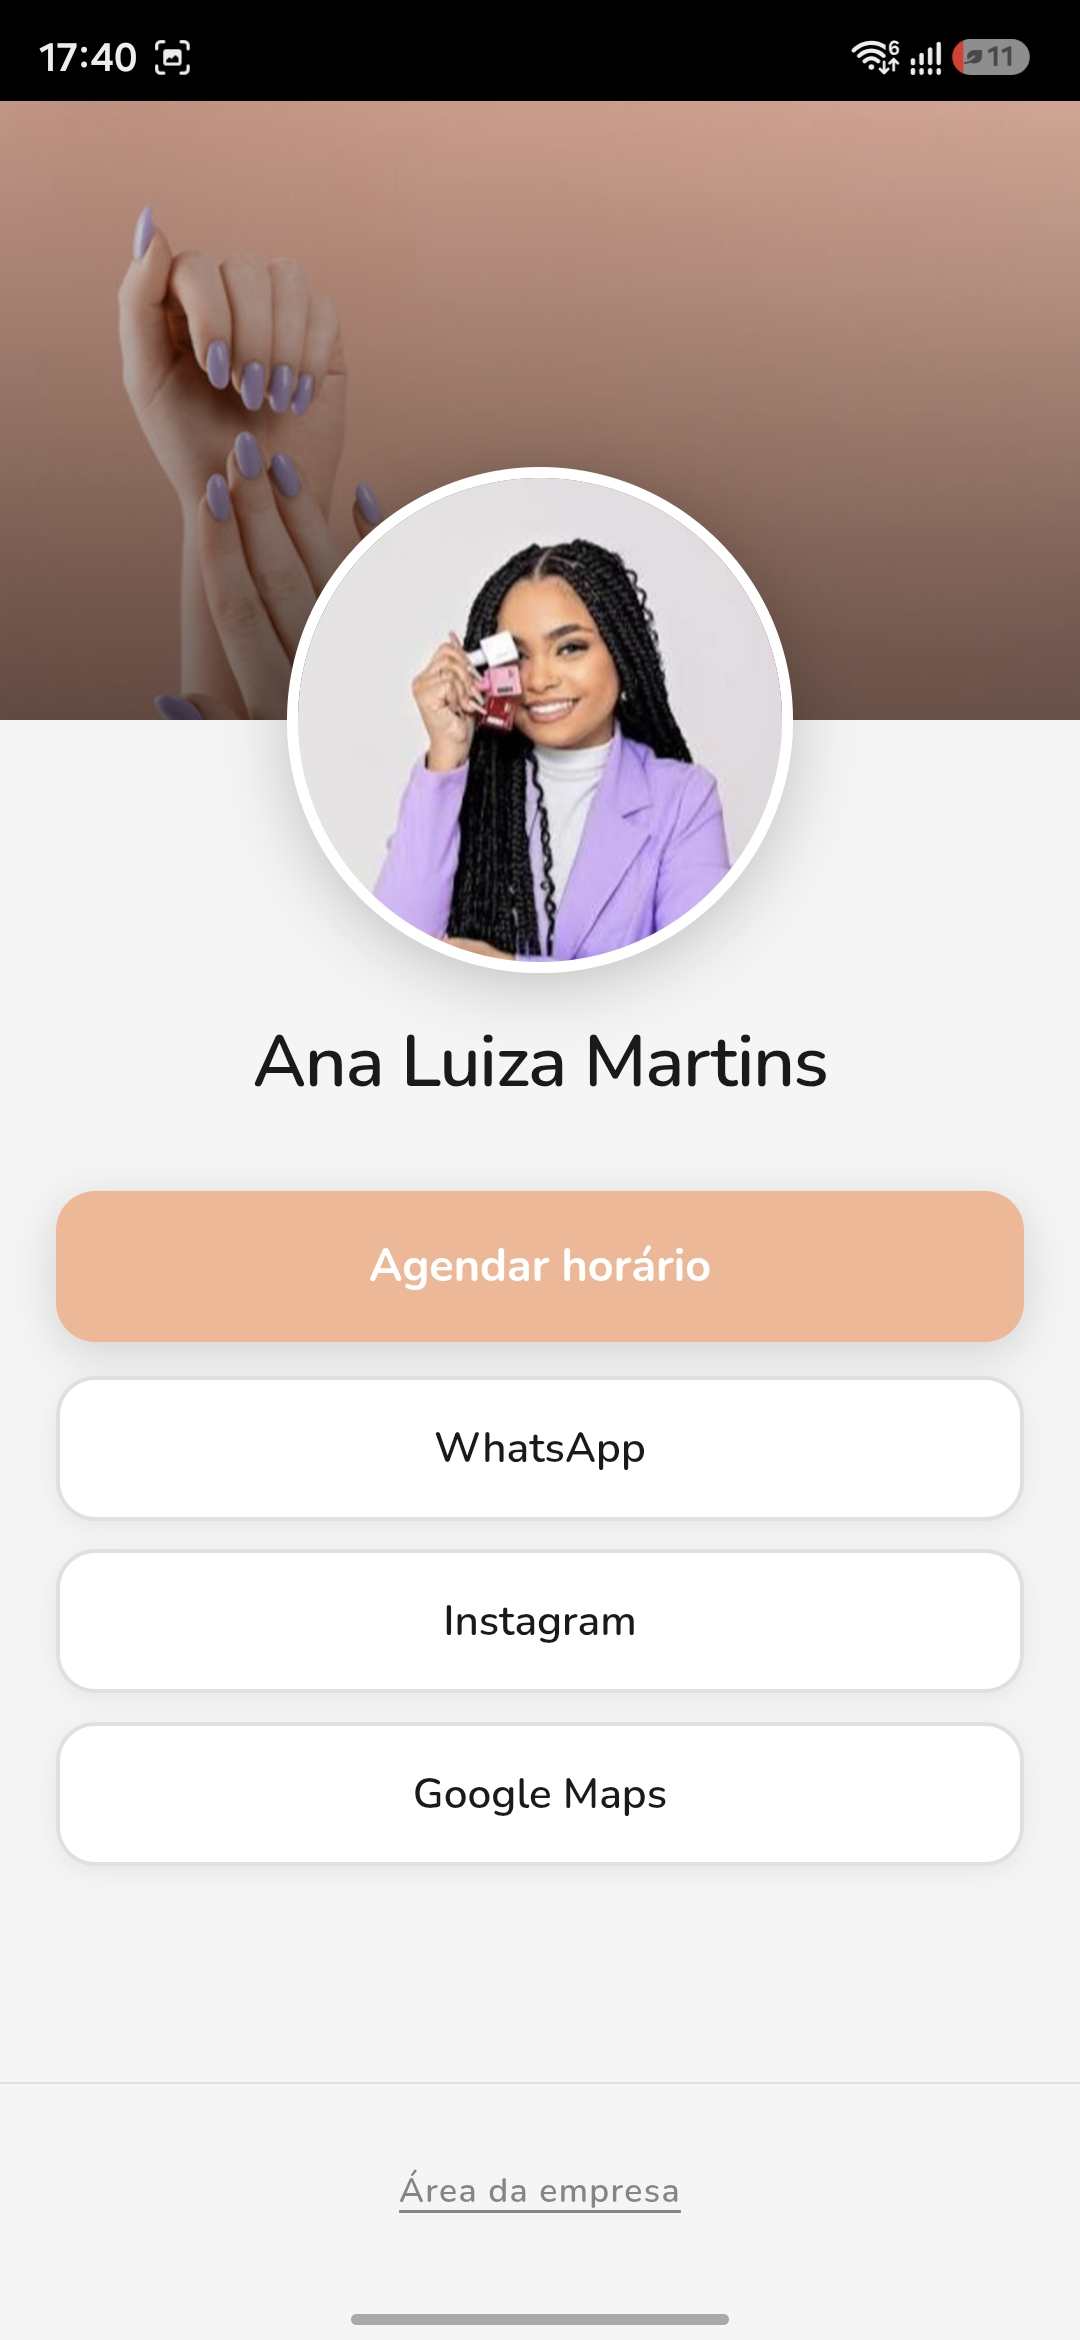
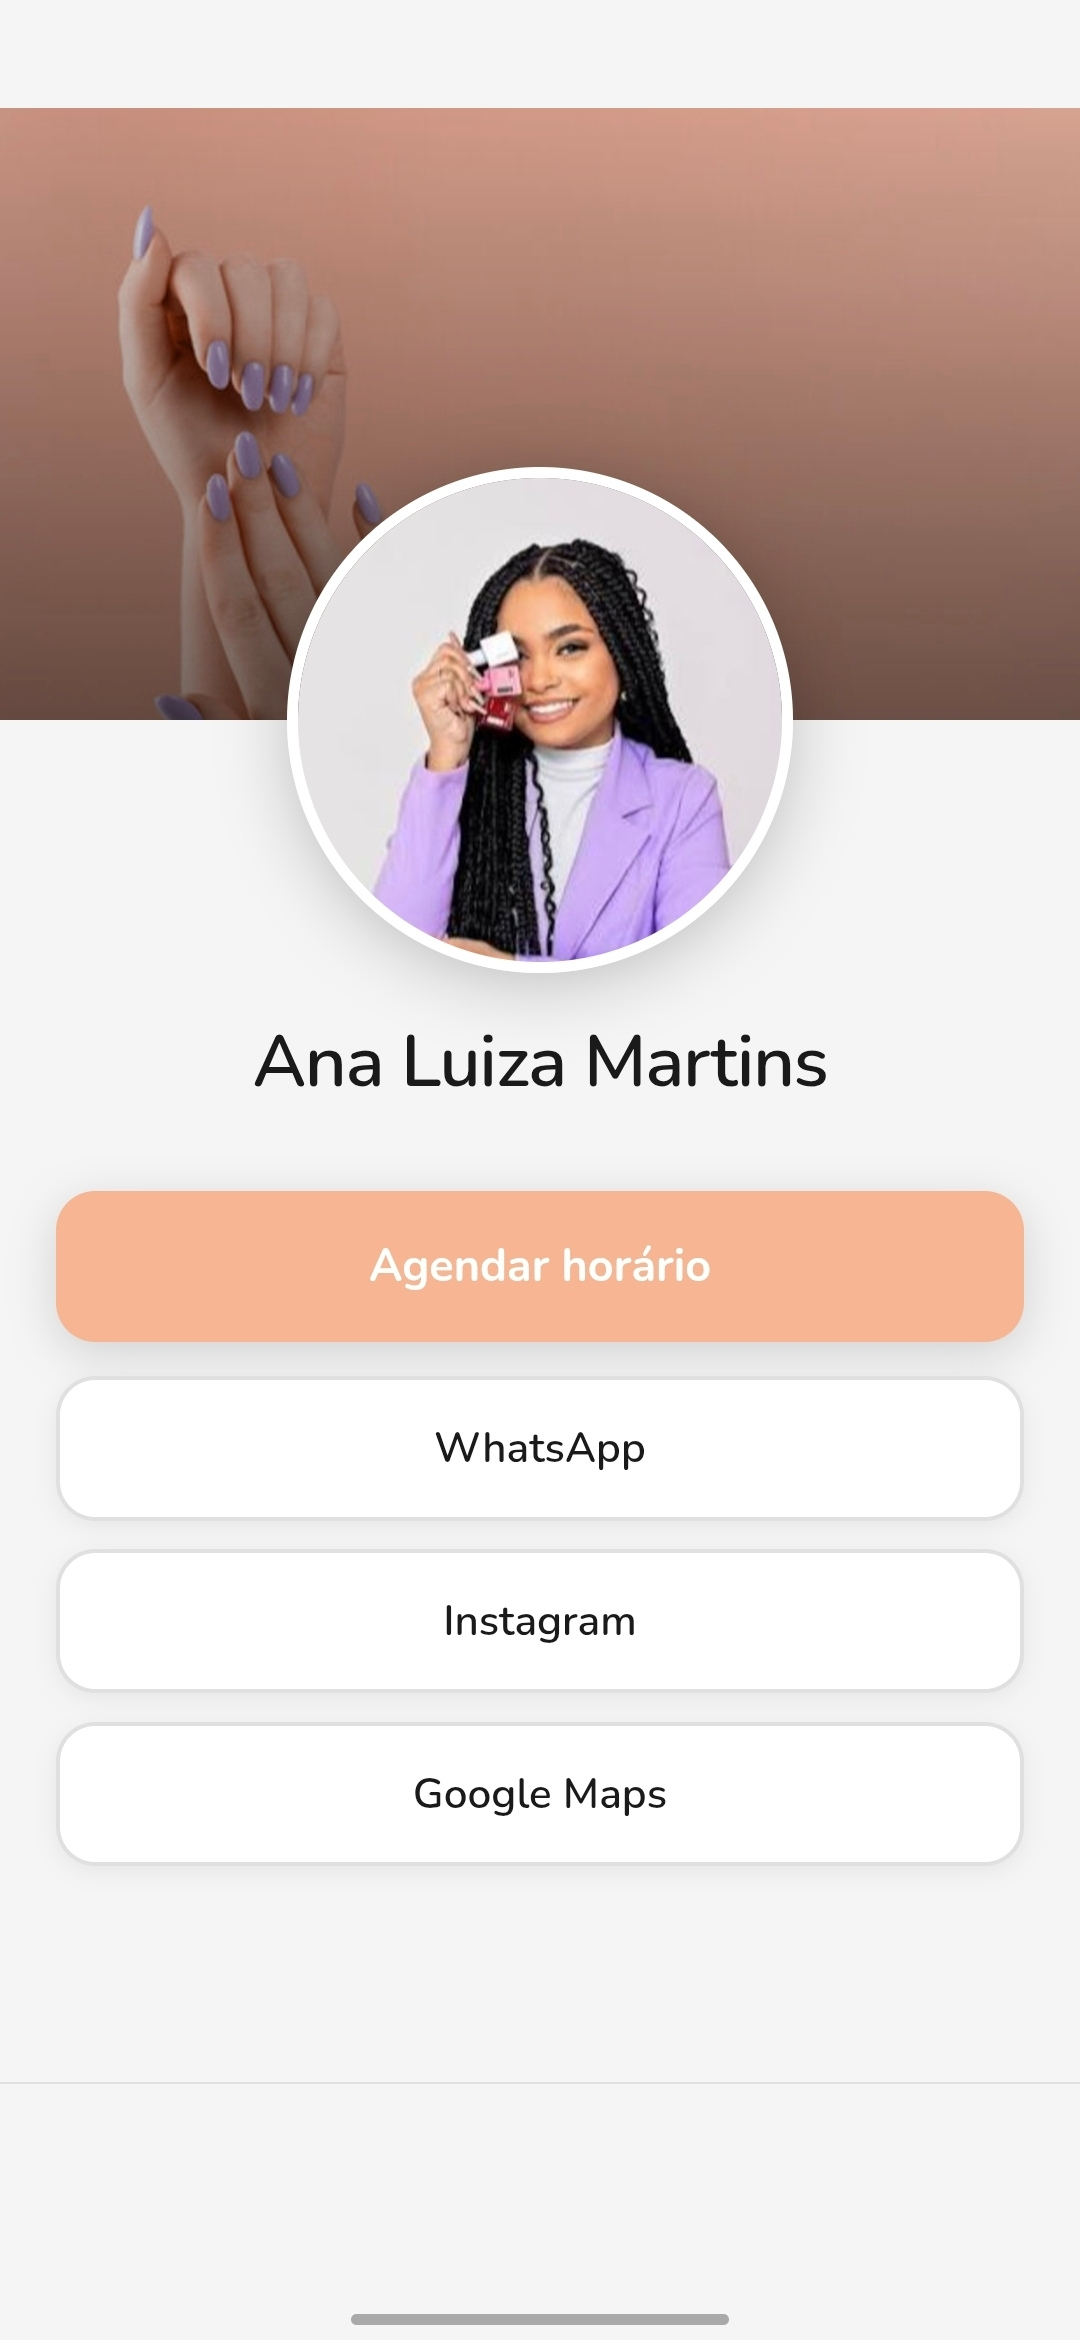
fix: volta notch menor e atualiza imagens do mockup

Changed region(s): [[0.0, 0.0, 1.0, 0.0624], [0.5194, 0.9359, 0.6111, 0.9671], [0.3972, 0.9359, 0.4889, 0.9671]]

diff --git a/index.html b/index.html
@@ -157,17 +157,16 @@ nav{
   50%{transform:translateY(-5px);}
 }
 .phone-notch{
-  position:absolute;top:12px;left:50%;transform:translateX(-50%);
-  width:90px;height:26px;
+  position:absolute;top:10px;left:50%;transform:translateX(-50%);
+  width:68px;height:20px;
   background:#000;
   border-radius:20px;
   z-index:10;
-  display:flex;align-items:center;justify-content:flex-end;
-  padding-right:10px;gap:5px;
 }
 .phone-notch::after{
   content:'';
-  width:10px;height:10px;
+  position:absolute;right:8px;top:50%;transform:translateY(-50%);
+  width:8px;height:8px;
   border-radius:50%;
   background:#1a1a1a;
   border:1.5px solid #2a2a2a;
@@ -343,7 +342,8 @@ FINISH: unreviewed and undocumented is unfinished; this build ends with the fini
     </div>
     <div class="phone-wrap">
       <div class="phone" id="phoneMockup">
-<div class="phone-screen">
+        <div class="phone-notch"></div>
+        <div class="phone-screen">
           <div class="phone-slide active" id="slide-0"><img src="/assets/imagens/passo-1-inicio.jpg" alt="Passo 1"/></div>
           <div class="phone-slide" id="slide-1"><img src="/assets/imagens/passo-2-servico.jpg" alt="Passo 2"/></div>
           <div class="phone-slide" id="slide-2"><img src="/assets/imagens/passo-3-horario.jpg" alt="Passo 3"/></div>
